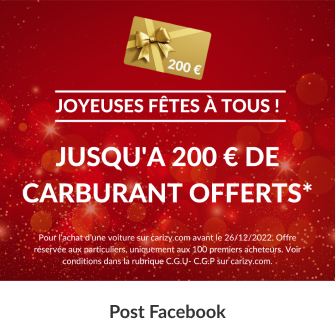
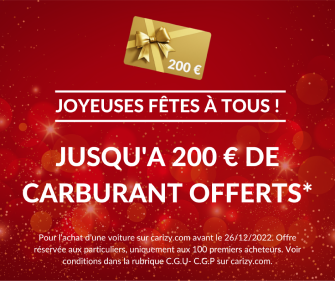
work-reseaux-sociaux.html OK

diff --git a/work-reseaux-sociaux.html b/work-reseaux-sociaux.html
@@ -100,7 +100,7 @@
 				</div>
 			</section>
 			<!-- Section 3 -->
-			<section class="bg-grey">
+			<section class="bg-grey p-b-4">
 				<div class="container">
 					<div class="section-1">
 						<h2>Black Friday</h2>
@@ -136,31 +136,40 @@
 					</div>
 				</div>
 			</section>
-			<!-- Section 4 -->
-			<section class="container p-b-2">
-				<div class="section-1 flex">
-					<div class="section-1-img">
-						<div class="photo-profil">
-							<img src="/assets/img/Photo-carole.png" alt="Photo de Carole" />
-						</div>
-					</div>
-					<div class="section-1-txt">
-						<h2>Qui-suis-je ?</h2>
+			<!-- Section 3 -->
+			<section class="p-b-4">
+				<div class="container">
+					<div class="section-1">
+						<h2>Noël</h2>
 						<div class="separateur"></div>
 						<p>
-							Successivement rédactrice web puis chef de projet web, j’évolue
-							dans l’univers du digital depuis une dizaine d’années. En 2021,
-							j’ajoute une nouvelle corde à mon arc l’ux ui design, en réalisant
-							une formation chez Openclassroom. Découvrez l’ensemble de mon
-							parcours en téléchargeant mon CV.
+							La période de Noël n’est pas un moment favorable à la vente
+							automobile. Afin de remédier à cela, une opération commerciale
+							proposait une carte cadeau essence pouvant aller jusqu’à 200 €
+							pour l’achat d’un véhicule d’occasion durant cette période. Le
+							visuel devait faire ressortir l’esprit de Noël et mettre en avant
+							l’offre. Cette opération commerciale a été publiée sur Facebook,
+							Instagram et déclinée en bannière sur le site internet.
 						</p>
-						<div class="section-btn">
-							<a
-								class="btn-outline txt-btn-center"
-								href="/assets/cv/CV-Carole_Portal-UX-UI-Designer.pdf"
-								target="_blank"
-								>Télécharger mon CV</a
-							>
+					</div>
+					<div class="section-1 center-img">
+						<div class="flex flex-wrap gap-1">
+							<div class="reseaux-img">
+								<img src="/assets/img/reseaux-sociaux/image-6.png" alt="" />
+								<p class="text-center">Post Facebook</p>
+							</div>
+							<div class="reseaux-img">
+								<img src="/assets/img/reseaux-sociaux/image-7.png" alt="" />
+								<p class="text-center">Post Instagram</p>
+							</div>
+							<div class="reseaux-img">
+								<img src="/assets/img/reseaux-sociaux/image-8.png" alt="" />
+								<p class="text-center">Bannière site - Mobile</p>
+							</div>
+							<div class="reseaux-img">
+								<img src="/assets/img/reseaux-sociaux/image-9.png" alt="" />
+								<p class="text-center">Bannière site - desktop</p>
+							</div>
 						</div>
 					</div>
 				</div>

diff --git a/assets/styles/work-reseaux-sociaux.css b/assets/styles/work-reseaux-sociaux.css
@@ -1,0 +1,12 @@
+.reseaux-img {
+	max-width: 325px;
+	margin-bottom: 2rem;
+}
+
+.reseaux-img img {
+	width: 100%;
+}
+
+.reseaux-img p {
+	margin-top: 1rem;
+}
